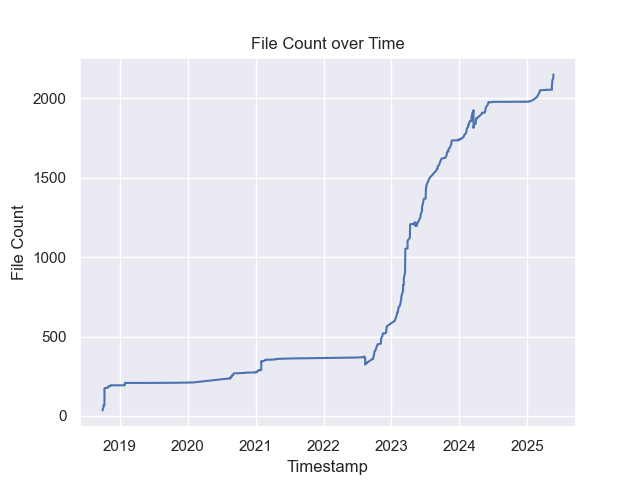
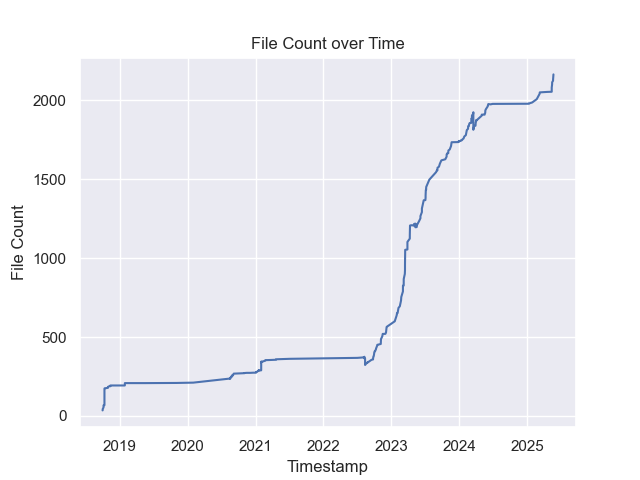
Refreshed commit stats

diff --git a/.stats/render_commit_stats.py b/.stats/render_commit_stats.py
@@ -1,18 +1,105 @@
+import subprocess
+import json
+import re
+import os
 import datetime
 
 import pandas as pd
 import matplotlib.pyplot as plt
 import seaborn as sns
 
-if __name__ == '__main__':
+MAIN_BRANCH_NAME = "main"
+STATS_FILE = "./.stats/data/stats.json"
+STATS_VERSION = 2
+WORD_RE = re.compile(rb"(\w*-\w+)|(\w+-\w*)|(\w*'\w+)|(\w+'\w*)|(\w+)")
+NOTES_DIRECTORY = os.environ.get("NOTES_DIRECTORY", None)
+
+
+def compute_stats(commit_hash: str) -> dict:
+    stats = {}
+
+    result = subprocess.run(
+        f"git log -1 --format='%aI' {commit_hash}".split(), stdout=subprocess.PIPE
+    )
+
+    result.check_returncode()
+    stats["timestamp"] = str(result.stdout, "utf-8").strip("'\" \r\n")
+
+    result = subprocess.run(
+        f"git ls-tree -r {commit_hash}".split(), stdout=subprocess.PIPE
+    )
+
+    result.check_returncode()
+    file_list = str(result.stdout, "utf-8").splitlines()
+
+    stats["num_files"] = len(file_list)
+
+    num_words = 0
+    markdown_files = [f.split("\t")[-1] for f in file_list if f.endswith(".md")]
+
+    markdown_files = [
+        f
+        for f in markdown_files
+        if not NOTES_DIRECTORY or f.startswith(NOTES_DIRECTORY)
+    ]
+
+    stats["num_md_files"] = len(markdown_files)
+
+    for md_file in markdown_files:
+        result = subprocess.run(
+            ["git", "show", f"{commit_hash}:{md_file}"], stdout=subprocess.PIPE
+        )
+
+        result.check_returncode()
+        for _ in WORD_RE.finditer(result.stdout):
+            num_words += 1
+
+    stats["num_words"] = num_words
+
+    stats["version"] = STATS_VERSION
+
+    return stats
+
+
+def generate_commit_stats():
+    try:
+        with open(STATS_FILE, "r") as f:
+            stats: dict[str, dict] = json.load(f)
+    except FileNotFoundError:
+        stats = {}
+
+    # Check for changes
+    # result = subprocess.run("git diff-index --quiet HEAD --".split())
+    # result.check_returncode()
+
+    # Get the list of commit hashes
+    result = subprocess.run(
+        f'git log --format="%H" {MAIN_BRANCH_NAME}'.split(), stdout=subprocess.PIPE
+    )
+    result.check_returncode()
+
+    try:
+        commit_hashes = str(result.stdout, "utf-8").replace('"', "").splitlines()
+        for i, hash in enumerate(commit_hashes):
+            print(f"Getting stats for commit {hash}. {i + 1} of {len(commit_hashes)}")
+            if hash not in stats or stats[hash].get("version", 0) < STATS_VERSION:
+                stats[hash] = compute_stats(hash)
+    finally:
+        with open(STATS_FILE, "w") as f:
+            json.dump(stats, f, indent=2)
+
+
+def render_commit_stats():
     df_stats = pd.read_json("./.stats/data/stats.json")
     df_stats = df_stats.T
-    df_stats.timestamp = pd.Series.apply(df_stats.timestamp, datetime.datetime.fromisoformat)
+    df_stats.timestamp = pd.Series.apply(
+        df_stats.timestamp, datetime.datetime.fromisoformat
+    )
 
     # The commits from merging in the "Foam" notebook base breaks
     # the graph a litte bit.
     df_stats = df_stats[df_stats.num_words > 5500]
-    df_stats = df_stats.sort_values('timestamp')
+    df_stats = df_stats.sort_values("timestamp")
 
     sns.set_theme()
 
@@ -22,15 +109,11 @@ if __name__ == '__main__':
     plt.ylabel("Word Count")
 
     plt.yticks(
-        ticks=[
-            n for n in range(50_000, 301_000, 50_000)        
-        ],
-        labels=[
-            f"{n}k" for n in range(50, 301, 50)
-        ],
+        ticks=[n for n in range(50_000, 301_000, 50_000)],
+        labels=[f"{n}k" for n in range(50, 301, 50)],
     )
 
-    plt.savefig('./images/rendered/wordcount.png')
+    plt.savefig("./images/rendered/wordcount.png")
 
     plt.clf()
 
@@ -38,4 +121,9 @@ if __name__ == '__main__':
     plt.title("File Count over Time")
     plt.xlabel("Timestamp")
     plt.ylabel("File Count")
-    plt.savefig('./images/rendered/filecount.png')
+    plt.savefig("./images/rendered/filecount.png")
+
+
+if __name__ == "__main__":
+    generate_commit_stats()
+    render_commit_stats()
